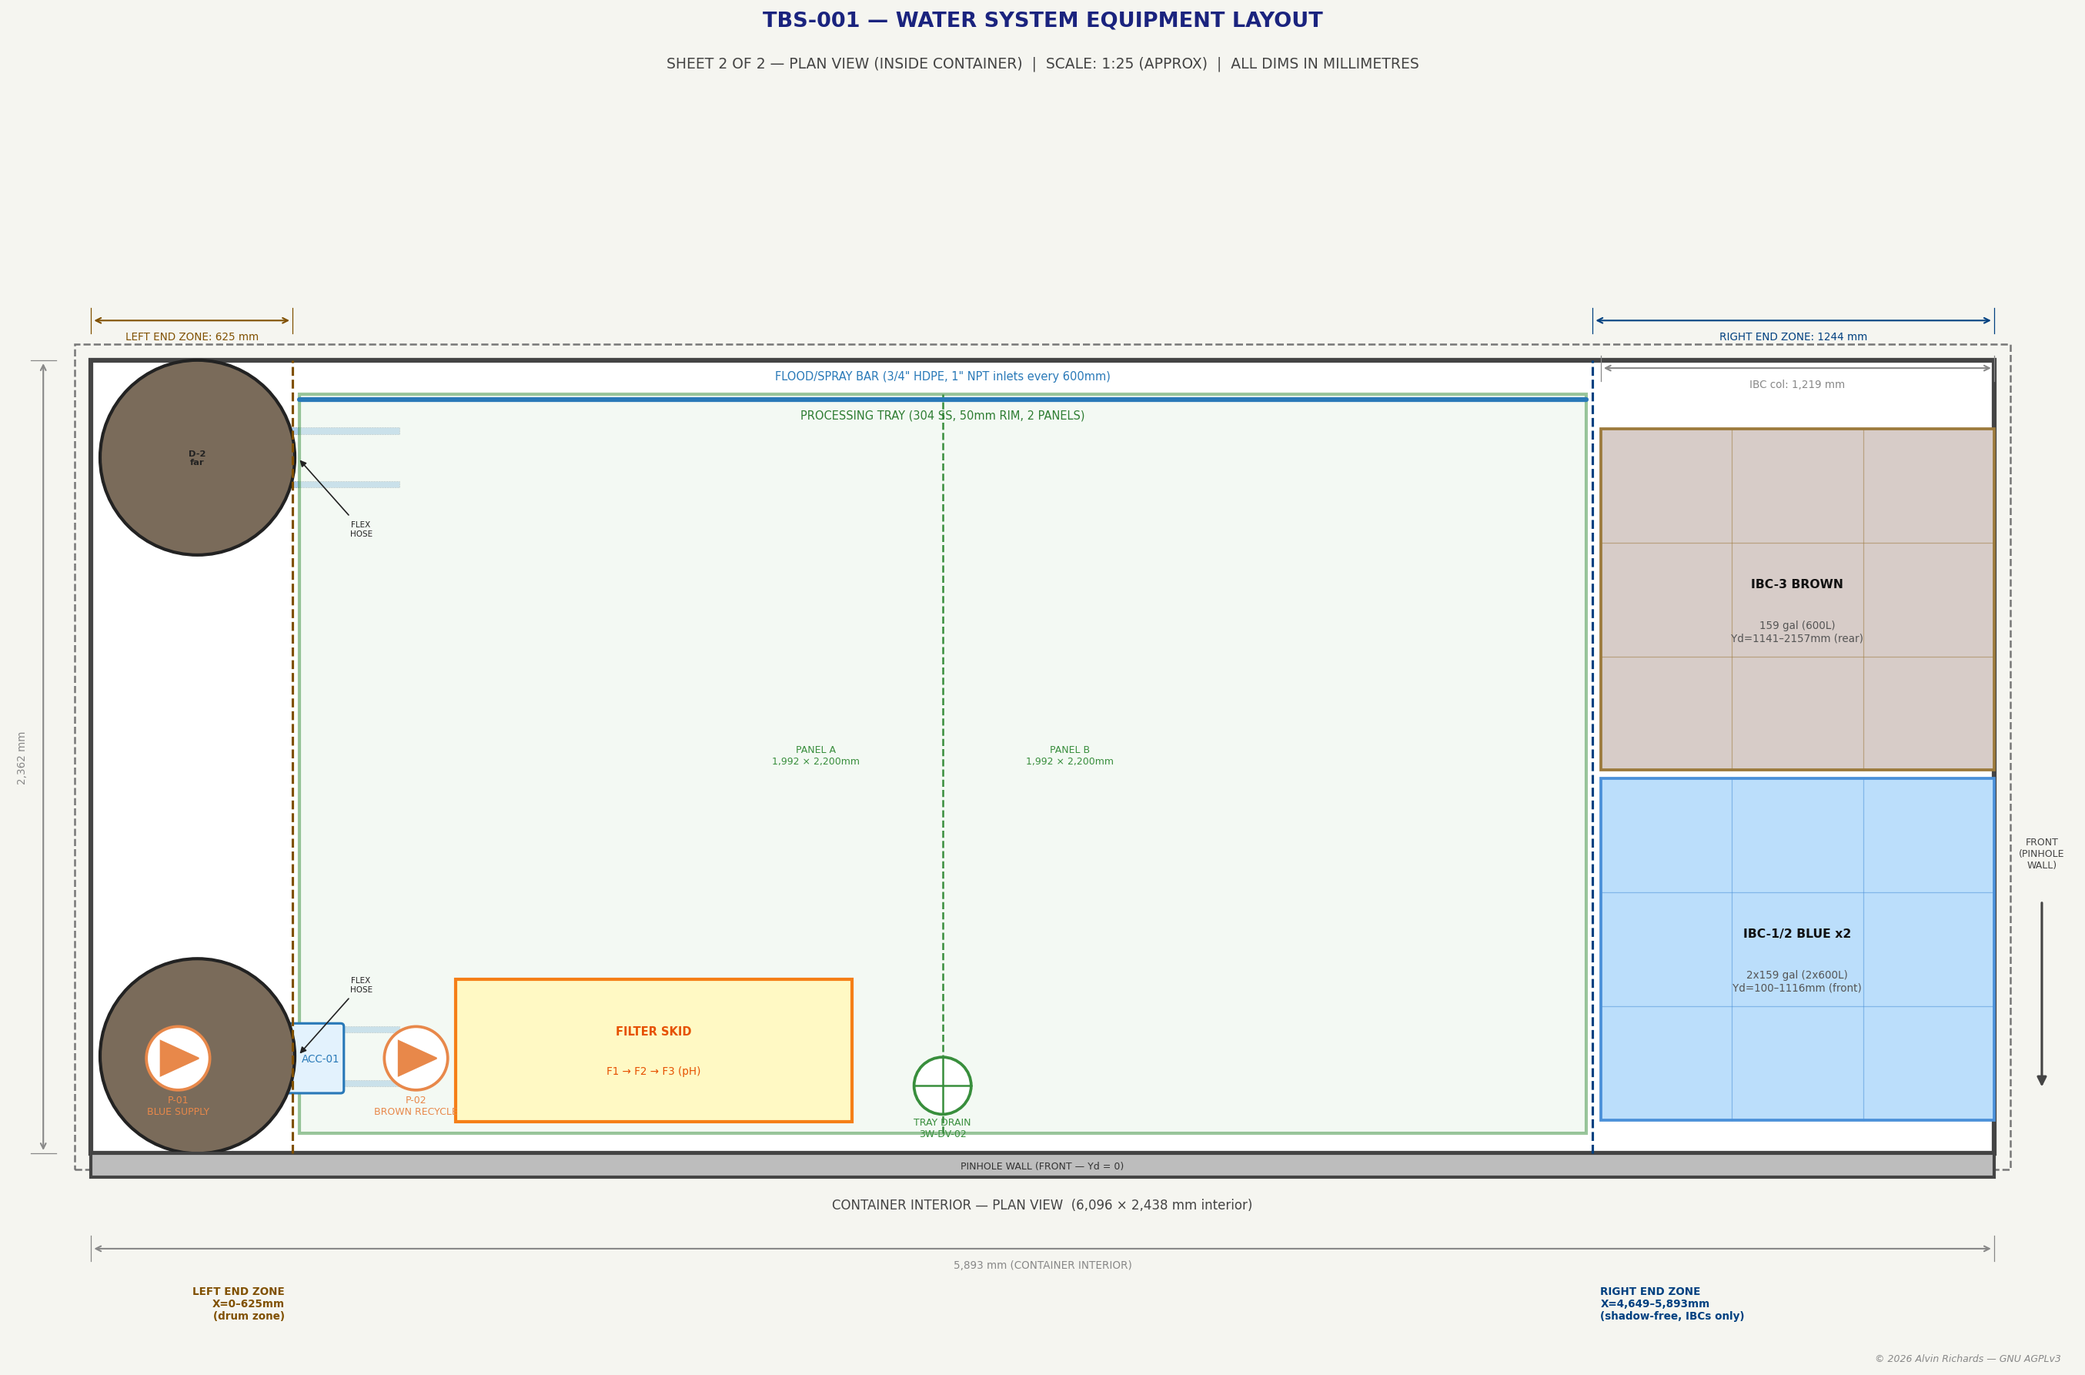
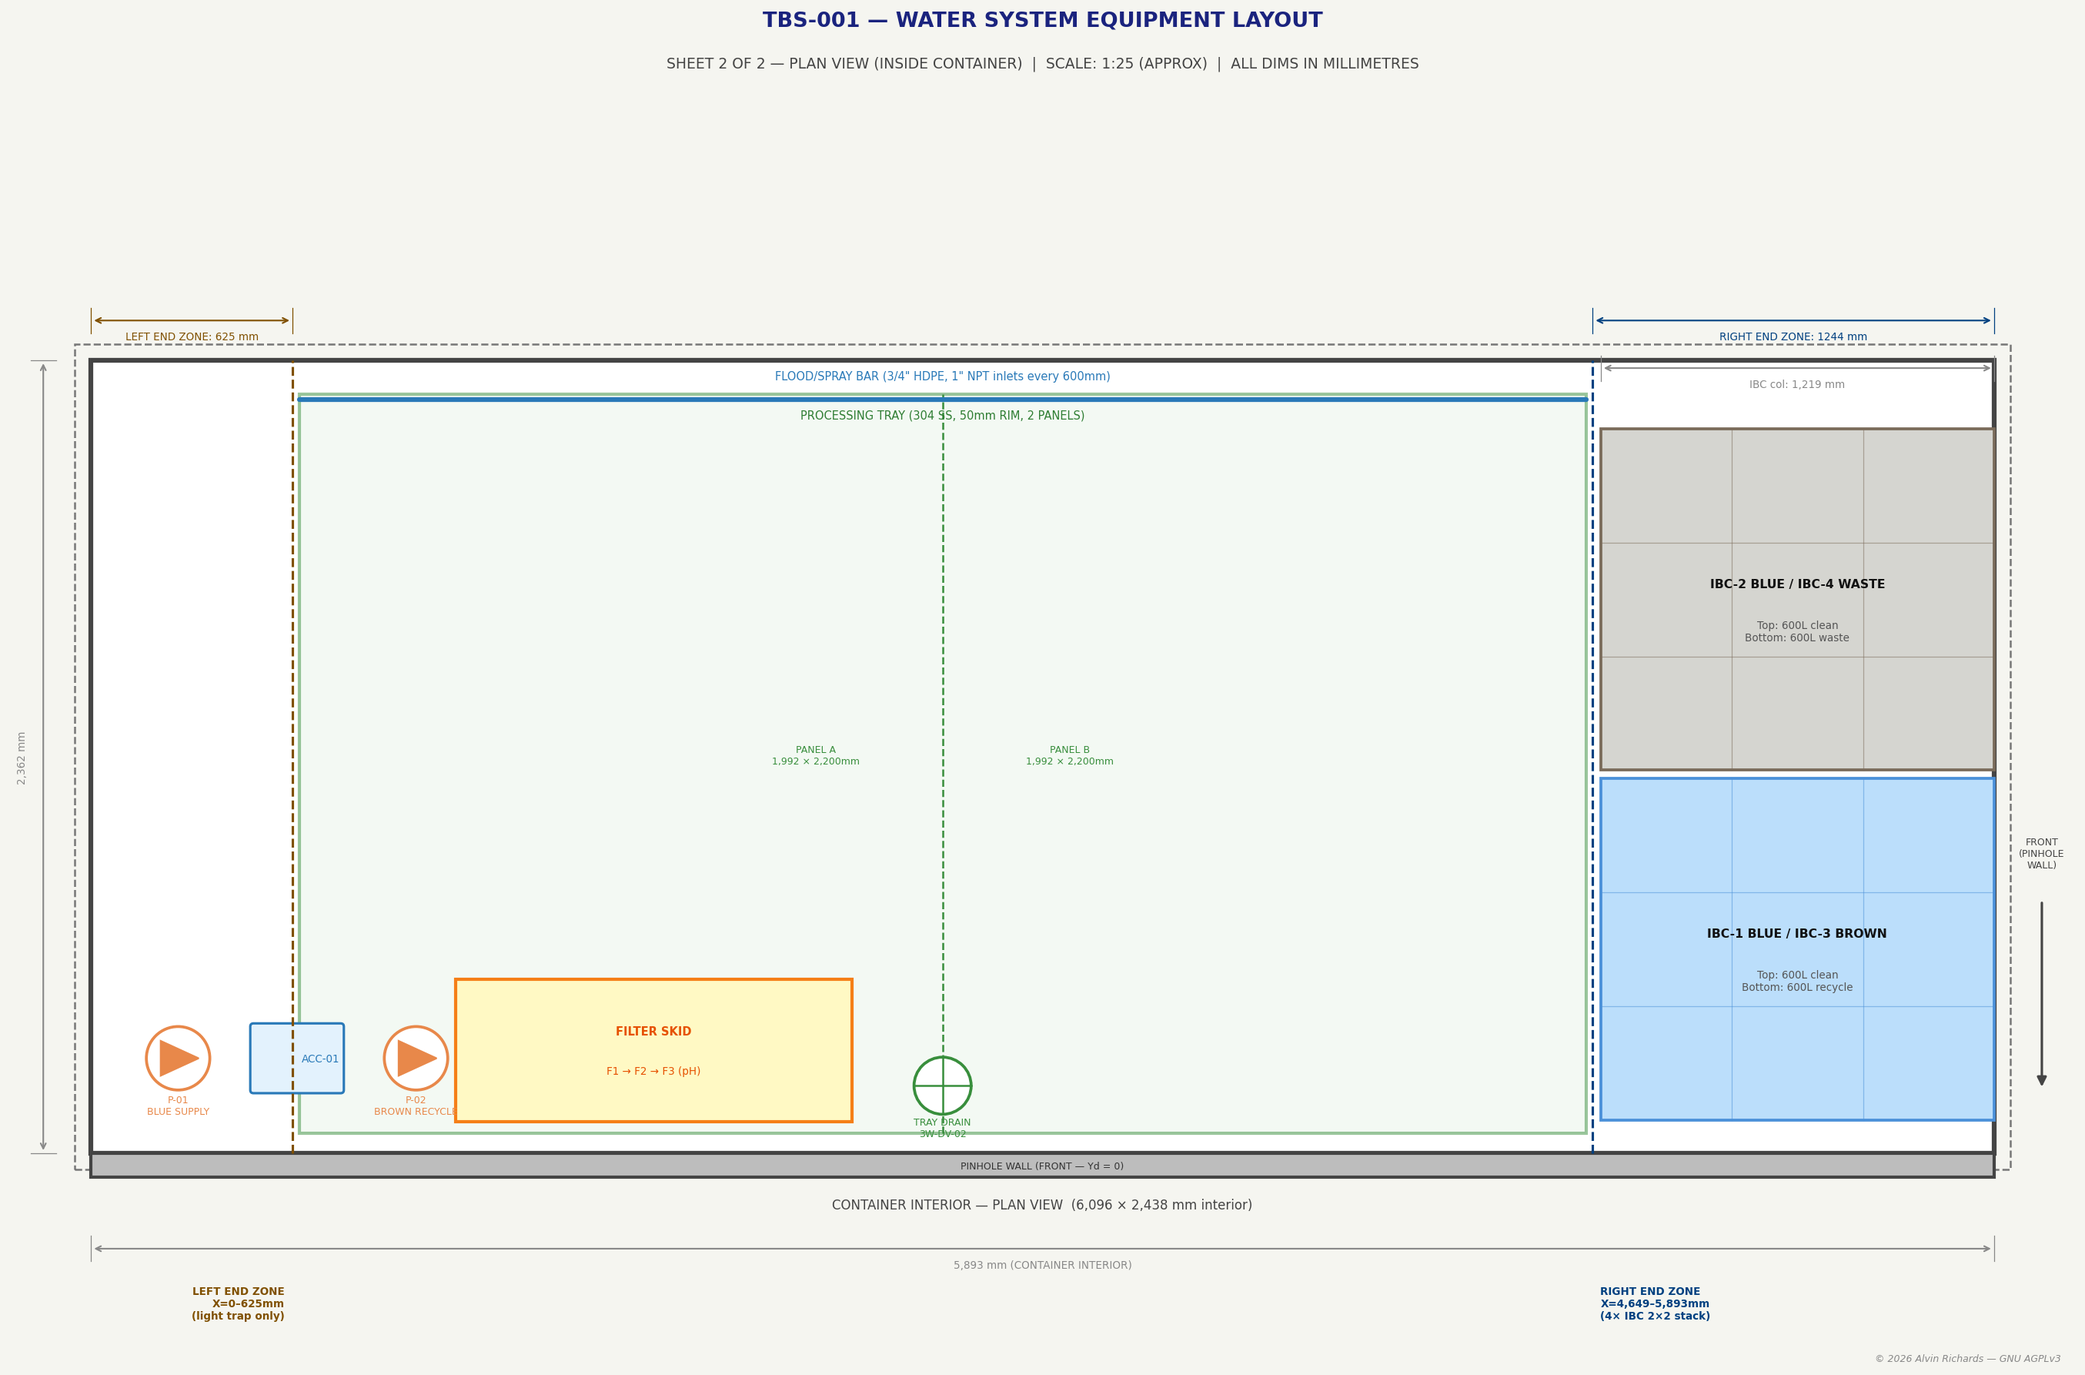
Replace waste drums with IBC-4 in water system diagrams
Sheet 1 P&ID: single waste IBC tank replaces two drum circles,
simplified piping, external fill/drain port labels added.
Sheet 2 plan: drums and dolly tracks removed, IBC labels updated
for 2x2 stack layout, zone labels updated.

diff --git a/generate_water_system.py b/generate_water_system.py
@@ -21,14 +21,12 @@ import matplotlib.patches as mpatches
 from matplotlib.patches import FancyArrowPatch, FancyBboxPatch, Arc
 from matplotlib.lines import Line2D
 from tbs_constants import (
-    IBC_COL_X, ZONE_L_END, ZONE_R_START,
+    C_LEN, C_WID, IBC_COL_X, IBC_W, IBC_D, IBC_H_600, IBC_H_STK,
+    ZONE_L_END, ZONE_R_START,
     FP_X_L, FP_X_R,
-    DRUM_EQ_D, DRUM_EQ_R, DRUM_EQ_H,
-    DRUM_LZ_CX, DRUM_LZ_YD, DRUM_LZ_YD_LO, DRUM_LZ_YD_HI,
-    DRUM_FZ_CX, DRUM_FZ_YD, DRUM_FZ_YD_LO, DRUM_FZ_YD_HI,
-    PANEL_CORNER_T, PERM_TRACK_END, BRIDGE_TRACK_START, BRIDGE_TRACK_END,
-    DRUM_SLIDE,
-    C_WASTE_DRUM, C_BLUE_IBC, C_BROWN_IBC, C_PUMP, C_WALL,
+    BLUE_IBC_Y, BROWN_IBC_Y, IBC_FAR_Y, WASTE_IBC_Y,
+    PROC_TRAY_X_L, PROC_TRAY_X_R,
+    C_BLUE_IBC, C_BROWN_IBC, C_WASTE_IBC, C_PUMP, C_WALL,
     svg_path, SVG_DIR,
 )
 import os
@@ -84,15 +82,6 @@ def tank(ax, x, y, w, h, fc="white", ec=C_FRAME, label="", sublabel="",
     if sublabel:
         ax.text(x, y - 0.06, sublabel, ha="center", va="center",
                 fontsize=6.5, color="#555555", zorder=zorder + 1)
-
-def drum(ax, x, y, r=0.07, fc="white", ec=C_FRAME, label="", lw=1.4, zorder=2):
-    """Draw a 55-gal drum (circle)."""
-    circ = plt.Circle((x, y), r, fc=fc, ec=ec, lw=lw, zorder=zorder)
-    ax.add_patch(circ)
-    if label:
-        ax.text(x, y, label, ha="center", va="center",
-                fontsize=6.5, fontweight="bold", color=C_TEXT, zorder=zorder + 1,
-                multialignment="center")
 
 def pump(ax, x, y, color=C_BLUE, zorder=5, r=0.05):
     """Draw a centrifugal pump symbol (circle with triangle arrow)."""
@@ -200,11 +189,12 @@ ax1.text(15.65, 10.5, "PROCESSING AREA",
          ha="center", fontsize=8, fontweight="bold", color="#2E7D32", zorder=5)
 
 # ── Shared geometry constants (used across multiple systems) ──────────────────
-D1_X, D2_X = 11.07, 12.23  # drum X centers — 1/3 and 2/3 across Black zone (9.9–13.4)
-D_Y  = 7.5                  # drum centre Y (raised)
-DR   = 0.42                 # drum radius
+W_X  = 11.65                # waste IBC center X (centered in Black zone 9.9–13.4)
+W_Y  = 7.5                  # waste IBC center Y (raised)
+W_W  = 1.4                  # waste IBC box width (same as other IBCs on schematic)
+W_H  = 1.4                  # waste IBC box height
 BR   = 0.14                 # pipe-crossing bridge hump radius
-X_J  = D1_X + 0.5          # = 11.57, Y-junction X: floor drain + bypass merge before D1
+X_J  = 12.07                # Y-junction X: floor drain + bypass merge before waste IBC
 Y_J  = 5.62                 # Y level of Y-junction (matches heavy contam bypass exit)
 
 # ── BLUE SYSTEM ───────────────────────────────────────────────────────────────
@@ -242,17 +232,16 @@ arrow_pipe(ax1, 2.4, 4.95, 2.4, 4.65, color=C_BLUE)
 valve(ax1, 2.4, 4.5, color=C_BLUE)
 ax1.text(2.4, 4.37, "BV-02", ha="center", fontsize=6, color=C_BLUE)
 pipe(ax1, 2.4, 4.3, 2.4, 3.8, C_BLUE)
-# Run east to spray bar riser tap-off — humps over blue return (X=9.7), D1 vertical (D1_X), floor drain riser (X_J)
+# Run east to spray bar riser tap-off — humps over blue return (X=9.7) and waste vertical (W_X)
 pipe(ax1, 2.4, 3.8, 14.5, 3.8, C_BLUE)
 pipe_bridge(ax1, 9.7,   3.8, color=C_BLUE, lw=LW_PIPE)
-pipe_bridge(ax1, D1_X,  3.8, color=C_BLUE, lw=LW_PIPE)
-pipe_bridge(ax1, X_J,   3.8, color=C_BLUE, lw=LW_PIPE)
+pipe_bridge(ax1, W_X,   3.8, color=C_BLUE, lw=LW_PIPE)
 ax1.text(12.5, 4.0, "1\" HDPE — BLUE (SUPPLY)", ha="center",
          fontsize=7, color=C_BLUE)
 
-# Refill inlet (top of IBC-1)
+# External fill port (top of IBC-1, via bulkhead fitting in far wall)
 pipe(ax1, 1.5, 8.9, 1.5, 9.6, C_BLUE, style="--")
-ax1.text(1.5, 9.75, "FILL\nINLET", ha="center", fontsize=6,
+ax1.text(1.5, 9.75, "EXTERNAL FILL\nPORT (2\" NPT)", ha="center", fontsize=6,
          color=C_BLUE, style="italic")
 
 # Water level sensor labels
@@ -270,10 +259,10 @@ pipe(ax1, 6.4, 7.48, 6.4, 7.0, C_BROWN)
 valve(ax1, 6.4, 7.0, color=C_BROWN)
 ax1.text(6.6, 6.97, "BV-03", ha="center", fontsize=6, color=C_BROWN)
 pipe(ax1, 6.4, 6.8, 6.4, 6.3, C_BROWN)
-# Arrow from processing area — humps over blue return (X=9.7) and black vertical (D1_X)
+# Arrow from processing area — humps over blue return (X=9.7) and waste vertical (W_X)
 pipe(ax1, 6.4, 6.3, 15.65, 6.3, C_BROWN, style="--")
 pipe_bridge(ax1, 9.7,   6.3, color=C_BROWN, lw=LW_PIPE)
-pipe_bridge(ax1, D1_X,  6.3, color=C_BROWN, lw=LW_PIPE)
+pipe_bridge(ax1, W_X,   6.3, color=C_BROWN, lw=LW_PIPE)
 pipe_bridge(ax1, 14.5,  6.3, color=C_BROWN, lw=LW_PIPE)   # brown over spray bar riser
 arrow_pipe(ax1, 6.6, 6.3, 6.4, 6.3, color=C_BROWN)
 ax1.text(8.1, 6.1, "1\" HDPE — BROWN (DRAIN FROM FLOOR)", ha="center",
@@ -346,16 +335,14 @@ ax1.text(6.5, 10.15, "RECYCLED → BLUE IBC-2 (if pH & clarity OK)",
 # Path to Black system
 pipe(ax1, 9.7, 3.0, 9.7, 2.5, C_BLACK)
 arrow_pipe(ax1, 9.7, 2.85, 9.7, 2.6, color=C_BLACK)       # downward from DV-01
-pipe(ax1, 9.7, 2.5, D1_X, 2.5, C_BLACK)
-arrow_pipe(ax1, 10.3, 2.5, D1_X, 2.5, color=C_BLACK)      # rightward to D1
+pipe(ax1, 9.7, 2.5, W_X, 2.5, C_BLACK)
+arrow_pipe(ax1, 10.3, 2.5, W_X, 2.5, color=C_BLACK)       # rightward to waste IBC
 
 # ── BLACK SYSTEM ──────────────────────────────────────────────────────────────
-drum(ax1, D1_X, D_Y, r=DR, fc=C_WASTE_DRUM, ec=C_BLACK, lw=2,
-     label="DRUM-1\n55 GAL\nWASTE")
-drum(ax1, D2_X, D_Y, r=DR, fc=C_WASTE_DRUM, ec=C_BLACK, lw=2,
-     label="DRUM-2\n55 GAL\nWASTE")
+tank(ax1, W_X, W_Y, W_W, W_H, fc="#D5D5D0", ec=C_WASTE_IBC, lw=2,
+     label="IBC-4", sublabel="159 gal (600L)\nWASTE")
 
-# Heavy contamination bypass — left side of processing floor, 1/5th up (Y=5.62)
+# Heavy contamination bypass — left side of processing floor
 pipe(ax1, 14.1, Y_J, X_J, Y_J, C_BLACK, style="-.")
 valve(ax1, 12.6, 5.62, color=C_BLACK)                      # BV-04
 ax1.text(12.6, 5.80, "BV-04", ha="center", fontsize=6, color=C_BLACK)
@@ -364,46 +351,35 @@ ax1.text(12.6, 5.44, "HEAVY CONTAM. BYPASS", ha="center",
          fontsize=6, color=C_BLACK, style="italic")
 
 # Y-junction: floor drain riser meets heavy contam bypass at (X_J, Y_J)
-# Riser climbs at X_J, bridges over blue supply at Y=3.8
 pipe(ax1, X_J, 2.6,       X_J, 3.8 - BR,  C_BLACK)  # floor drain riser (below blue)
 pipe(ax1, X_J, 3.8 + BR,  X_J, Y_J,        C_BLACK)  # riser (above blue → junction)
-# Combined flow exits junction left into D1 vertical
-pipe(ax1, X_J, Y_J,  D1_X, Y_J, C_BLACK)             # junction → D1 vertical entry
-# D1 vertical — full height: filter skid feeds from Y=2.5; Y-junction joins at Y_J; drum above
-# Bridges at Y=3.8 (blue supply over) and Y=6.3 (brown drain over)
-pipe(ax1, D1_X, 2.5,       D1_X, 3.8 - BR,  C_BLACK)         # filter skid inlet to blue crossing
-pipe(ax1, D1_X, 3.8 + BR,  D1_X, 6.3 - BR,  C_BLACK)         # blue crossing to brown crossing
-pipe(ax1, D1_X, 6.3 + BR,  D1_X, D_Y - DR,  C_BLACK)         # brown crossing to drum
-arrow_pipe(ax1, D1_X, 3.2, D1_X, 4.5,       color=C_BLACK)   # upward flow (lower)
-arrow_pipe(ax1, D1_X, Y_J + 0.1, D1_X, D_Y - DR - 0.1, color=C_BLACK)  # upward flow (upper)
+# Combined flow exits junction left into waste IBC vertical
+pipe(ax1, X_J, Y_J,  W_X, Y_J, C_BLACK)              # junction → waste IBC vertical
+# Waste IBC vertical — filter skid feeds from Y=2.5; Y-junction joins at Y_J
+pipe(ax1, W_X, 2.5,       W_X, 3.8 - BR,  C_BLACK)   # filter feed to blue crossing
+pipe(ax1, W_X, 3.8 + BR,  W_X, 6.3 - BR,  C_BLACK)   # blue crossing to brown crossing
+pipe(ax1, W_X, 6.3 + BR,  W_X, W_Y - W_H/2,  C_BLACK)  # brown crossing to IBC bottom
+arrow_pipe(ax1, W_X, 3.2, W_X, 4.5,       color=C_BLACK)   # upward flow (lower)
+arrow_pipe(ax1, W_X, Y_J + 0.1, W_X, W_Y - W_H/2 - 0.1, color=C_BLACK)  # upward (upper)
 
-# Overflow from D1 top → D2 top
-OV_Y = D_Y + DR + 0.25
-pipe(ax1, D1_X, D_Y + DR, D1_X, OV_Y, C_BLACK, style="--")
-pipe(ax1, D1_X, OV_Y, D2_X, OV_Y, C_BLACK, style="--")
-arrow_pipe(ax1, D1_X + 0.3, OV_Y, D2_X - 0.1, OV_Y, color=C_BLACK)
-pipe(ax1, D2_X, OV_Y, D2_X, D_Y + DR, C_BLACK, style="--")
-ax1.text((D1_X + D2_X) / 2, OV_Y + 0.14,
-         "OVERFLOW →\nDRUM-2", ha="center", fontsize=6, color=C_BLACK)
-
-# Disposal from D2 — exits top of black system box
-DISP_Y = D_Y - DR - 0.55   # = 6.53, above brown drain at 6.3 so no bridge needed
-DISP_X = 13.3               # near right edge of black zone box (box right = 13.4)
-pipe(ax1, D2_X, D_Y - DR, D2_X, DISP_Y, C_BLACK)     # D2 bottom → down
-pipe(ax1, D2_X, DISP_Y, DISP_X, DISP_Y, C_BLACK)     # right to near box edge
+# External drain port — exits right side of black system box
+DISP_X = 13.3
+DISP_Y = W_Y - W_H/2 - 0.3
+pipe(ax1, W_X, W_Y - W_H/2, W_X, DISP_Y, C_BLACK)    # IBC bottom → down
+pipe(ax1, W_X, DISP_Y, DISP_X, DISP_Y, C_BLACK)      # right to near box edge
 pipe(ax1, DISP_X, DISP_Y, DISP_X, 10.75, C_BLACK)    # up and out top of box
 ax1.annotate("", xy=(DISP_X, 11.05), xytext=(DISP_X, 10.8),
              arrowprops=dict(arrowstyle="-|>", color=C_BLACK, lw=2,
                              mutation_scale=14), zorder=4)
-ax1.text(DISP_X, 11.2, "TO APPROVED\nDISPOSAL SITE", ha="center",
+ax1.text(DISP_X, 11.2, "EXTERNAL DRAIN\nPORT (2\" NPT)", ha="center",
          fontsize=6.5, color=C_BLACK, fontweight="bold", va="bottom")
 
 # ── PROCESSING AREA ───────────────────────────────────────────────────────────
 ax1.add_patch(plt.Rectangle((13.7, 3.5), 3.8, 5.5, fc="#C8E6C9", ec="#388E3C",
                              lw=1.5, zorder=2))
-ax1.text(15.6, 8.8, "PRINT PROCESSING FLOOR", ha="center", fontsize=7.5,
+ax1.text(15.6, 8.8, "PROCESSING TRAY (304 SS)", ha="center", fontsize=7.5,
          fontweight="bold", color="#2E7D32")
-ax1.text(15.6, 8.5, "(140 sq ft containment zone)", ha="center",
+ax1.text(15.6, 8.5, "(50mm rim, 1:200 pitch, permanent)", ha="center",
          fontsize=6.5, color="#388E3C")
 
 # Print on floor representation
@@ -419,7 +395,7 @@ circle_drain = plt.Circle((15.6, 4.15), 0.15, fc="white", ec="#388E3C", lw=1.5,
 ax1.add_patch(circle_drain)
 ax1.plot([15.45, 15.75], [4.15, 4.15], color="#388E3C", lw=1.2, zorder=5)
 ax1.plot([15.6, 15.6], [4.0, 4.3], color="#388E3C", lw=1.2, zorder=5)
-ax1.text(15.6, 4.4, "FLOOR DRAIN\n+ DIVERTER", ha="center",
+ax1.text(15.6, 4.4, "TRAY DRAIN\n+ DIVERTER", ha="center",
          fontsize=6, color="#388E3C")
 
 # 3-way valve at drain
@@ -434,7 +410,7 @@ arrow_pipe(ax1, 15.1, 4.5, 15.1, 5.5, color=C_BROWN)          # upward drain ret
 pipe(ax1, 15.6, 3.35, 15.6, 2.6, C_BLACK)
 pipe(ax1, 15.6, 2.6, X_J,  2.6, C_BLACK)
 arrow_pipe(ax1, 14.5, 2.6, 12.5, 2.6, color=C_BLACK)
-ax1.text(13.5, 2.42, "TO DRUM (HEAVY CONTAM.)", ha="center", fontsize=6,
+ax1.text(13.5, 2.42, "TO WASTE IBC (HEAVY CONTAM.)", ha="center", fontsize=6,
          color=C_BLACK, style="italic")
 
 # Spray bar riser — blue supply tap-off at Y=3.8 up to spray bar at Y=8.0
@@ -569,14 +545,15 @@ def ibc_plan(ax, x, y, fc, ec, label, sublabel=""):
     ax.text(x + IBC_W/2, y + IBC_D/2 - 0.2, sublabel, ha="center", va="center",
             fontsize=6.5, color="#555", zorder=3)
 
-# Right end zone: Blue IBC stack x2 — Y-stacked FRONT (Yd=100–1116mm)
-BLUE_IBC_DY = 100 * SY   # ≈ 0.21
-ibc_plan(ax2, IBC_COL_DX, BLUE_IBC_DY, "#BBDEFB", C_BLUE_IBC,
-         "IBC-1/2 BLUE x2", "2x159 gal (2x600L)\nYd=100–1116mm (front)")
-# Brown IBC x1 — Y-stacked REAR (Yd=1141–2157mm)
-BROWN_IBC_DY = 1141 * SY  # ≈ 2.42
-ibc_plan(ax2, IBC_COL_DX, BROWN_IBC_DY, "#D7CCC8", C_BROWN_IBC,
-         "IBC-3 BROWN", "159 gal (600L)\nYd=1141–2157mm (rear)")
+# Right end zone: 4 IBCs in 2×2 stack (plan view shows top-down footprint)
+# Near column (Yd=100–1116mm): Blue #1 on top, Brown on bottom
+NEAR_IBC_DY = BLUE_IBC_Y * SY
+ibc_plan(ax2, IBC_COL_DX, NEAR_IBC_DY, "#BBDEFB", C_BLUE_IBC,
+         "IBC-1 BLUE / IBC-3 BROWN", "Top: 600L clean\nBottom: 600L recycle")
+# Far column (Yd=1141–2157mm): Blue #2 on top, Waste on bottom
+FAR_IBC_DY = IBC_FAR_Y * SY
+ibc_plan(ax2, IBC_COL_DX, FAR_IBC_DY, "#D5D5D0", C_WASTE_IBC,
+         "IBC-2 BLUE / IBC-4 WASTE", "Top: 600L clean\nBottom: 600L waste")
 
 # Filter skid (600×400mm → 0.6×0.4 → scaled = 0.96×0.64)
 FS_X, FS_Y, FS_W, FS_D = 2.3, 0.2, 2.5, 0.9
@@ -598,48 +575,6 @@ ax2.text(2.05, 0.25, "P-02\nBROWN RECYCLE", ha="center", fontsize=6, color=C_PUM
 # ACC accumulator
 box(ax2, 1.3, 0.6, 0.55, 0.4, fc="#E3F2FD", ec=C_BLUE, lw=1.5)
 ax2.text(1.45, 0.6, "ACC-01", ha="center", va="center", fontsize=6.5, color=C_BLUE)
-
-# 55-gal drums D-1, D-2 — LEFT end zone, one per Yd corner (rev 4: unstacked)
-DRUM_R_DU = DRUM_EQ_R * SY    # radius in drawing units
-for drum_cx, drum_cy, label in [
-    (DRUM_LZ_CX, DRUM_LZ_YD, "D-1\nnear"),   # near corner (pinhole wall side)
-    (DRUM_FZ_CX, DRUM_FZ_YD, "D-2\nfar"),    # far corner (far wall side)
-]:
-    dx = drum_cx * SX
-    dy = drum_cy * SY
-    ax2.add_patch(plt.Circle((dx, dy), DRUM_R_DU,
-                             fc=C_WASTE_DRUM, ec=C_BLACK, lw=2, zorder=2))
-    ax2.text(dx, dy, label, ha="center", va="center",
-             fontsize=5.5, fontweight="bold", color=C_BLACK, zorder=3,
-             multialignment="center")
-
-# V-groove dolly tracks under waste drums
-C_TRACK_W  = "#8B7355"    # permanent track color (brown)
-C_BRIDGE_W = "#4A90D9"    # bridge section color (blue)
-TK_W = 0.04               # track visual width in drawing units
-for drum_yd in [DRUM_LZ_YD, DRUM_FZ_YD]:
-    for offset_mm in [-80, 80]:  # two parallel tracks per drum
-        ty = (drum_yd + offset_mm) * SY
-        # Permanent section (X = PANEL_CORNER_T to PERM_TRACK_END)
-        x0 = PANEL_CORNER_T * SX
-        x1 = PERM_TRACK_END * SX
-        ax2.add_patch(plt.Rectangle((x0, ty - TK_W/2), x1 - x0, TK_W,
-                      fc=C_TRACK_W, ec=C_FRAME, lw=0.3, alpha=0.5, zorder=1))
-        # Bridge section (removable)
-        bx0 = BRIDGE_TRACK_START * SX
-        bx1 = BRIDGE_TRACK_END * SX
-        ax2.add_patch(plt.Rectangle((bx0, ty - TK_W/2), bx1 - bx0, TK_W,
-                      fc=C_BRIDGE_W, ec=C_FRAME, lw=0.3, alpha=0.45, zorder=1, ls="--"))
-
-# Flexible waste hose annotations (drums slide 305mm on dollies)
-flex_x = (DRUM_LZ_CX + DRUM_EQ_R + 20) * SX  # just right of drum edge
-for drum_yd, lbl_va in [(DRUM_LZ_YD, "bottom"), (DRUM_FZ_YD, "top")]:
-    fy = drum_yd * SY
-    sign = 1 if lbl_va == "bottom" else -1
-    ax2.annotate("FLEX\nHOSE", xy=(flex_x, fy), xytext=(flex_x + 0.4, fy + sign * 0.45),
-                 fontsize=5, color=C_BLACK, ha="center", va="center",
-                 arrowprops=dict(arrowstyle="-|>", color=C_BLACK, lw=0.8,
-                                 mutation_scale=8), zorder=5)
 
 # Processing tray (304 SS, two panels, 50mm rim)
 TRAY_X0 = (FP_X_L + 20) * SX   # left edge in drawing units
@@ -678,14 +613,14 @@ ax2.plot([drain_x, drain_x], [drain_y - 0.18, drain_y + 0.18],
 ax2.text(drain_x, drain_y - 0.32, "TRAY DRAIN\n3W-DV-02", ha="center",
          fontsize=6, color="#388E3C")
 
-# Left end zone shading (X=0–625mm = drum zone)
+# Left end zone shading (X=0–625mm — light trap only, drums removed rev 5)
 ZONE_L_DX = ZONE_L_END * SX   # = 625mm → ≈ 1.27
 ax2.add_patch(plt.Rectangle((0, 0), ZONE_L_DX, CH,
               fc="#FFF3E0", ec="none", alpha=0.45, zorder=0))
 ax2.plot([ZONE_L_DX, ZONE_L_DX], [0, CH], color="#805000", lw=1.5, ls="--",
          zorder=6)
-ax2.text(ZONE_L_DX - 0.05, -CH/6, #CH - 0.15,
-         f"LEFT END ZONE\nX=0–{ZONE_L_END:,}mm\n(drum zone)",
+ax2.text(ZONE_L_DX - 0.05, -CH/6,
+         f"LEFT END ZONE\nX=0–{ZONE_L_END:,}mm\n(light trap only)",
          ha="right", va="top", fontsize=6.5, color="#805000", fontweight="bold")
 
 # Right end zone shading (X=4649–5893mm in drawing)
@@ -695,7 +630,7 @@ ax2.add_patch(plt.Rectangle((ZONE_R_DX, 0), CW - ZONE_R_DX, CH,
 ax2.plot([ZONE_R_DX, ZONE_R_DX], [0, CH], color="#004080", lw=1.5, ls="--",
          zorder=6)
 ax2.text(ZONE_R_DX + 0.05, -CH/6,
-         f"RIGHT END ZONE\nX={ZONE_R_START:,}–5,893mm\n(shadow-free, IBCs only)",
+         f"RIGHT END ZONE\nX={ZONE_R_START:,}–5,893mm\n(4× IBC 2×2 stack)",
          ha="left", va="top", fontsize=6.5, color="#004080", fontweight="bold")
 
 # Pinhole wall — BOTTOM of plan view (Yd=0 = near side, pinhole aperture wall)
